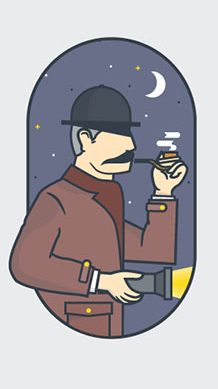
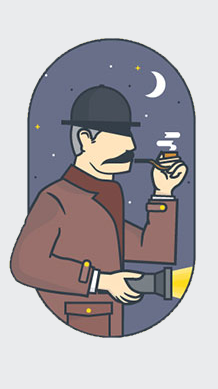
Last changes

diff --git a/index.html b/index.html
@@ -8,16 +8,16 @@
     <title>Serlokas</title>
 </head>
 
-<body style="background-color:yellow;">
-    <main style="display: inline-block; background-color: pink; width: 50%; margin-left: 25%; margin-top: 8%;">
+<body style="background-color: #EAEBED">
+    <main style="display: inline-block; width: 50%; margin-left: 25%; margin-top: 8%;">
         <img style="float: left; width: 40%" src="./serloc.png" alt="Serlokas menesienoje su pypke ir prozektoriumi">
-        <div style="float: right; width: 50%; background-color:aqua; margin-top: 5%;">
-            <h1 style="">404</h1>
-            <p style="">Looks like this page is missing.<br>
+        <div style="text-align: center; float: right; width: 50%; background-color:aqua; margin-top: 8%;">
+            <h1 style="font-size: 100px;">404</h1>
+            <p style="font-size: 24px;">Looks like this page is missing.<br>
                 Don't worry though, our best<br>
                 man is on the case.</p>
             <p style="">Meanwhile, why don't try again by going.</p>
-            <button style="background-color: grey; color: white; font-weight: bold;"><a href="http://www.google.com">BACK HOME</a></button>
+            <a style="" href="http://www.google.com">BACK HOME</a>
         </div>
     </main>
 </body>
@@ -50,6 +50,17 @@ display - elemento atvaizdavimo budas
 display: block;             is virsaus i apacia (dauguma)
 display: inline;            eina is vienos eiles i kita (a, span)
 display: inline-block;      stengiasi buti vienoje eileje su kitais, bet jei netelpa - VISAS nusoka i kita eile
+
+SPALVOS PANAUDOJIMO VARIACIJOS:
+background-color: rgb(234, 235, 237);
+background-color: #EAEBED;
+background-color: hsl(220, 1%, 92%)
+background-color: rgba(234, 235, 237);
+background-color: hsla(220, 1%, 92%)
+background-color: #EAEBED??;
+
+<h1 style="font-size: 100px; text-align: right;">404</h1>
+<h1 style="font-size: 100px; text-align: center; background-color: red;">404</h1>
 
 
   -->
